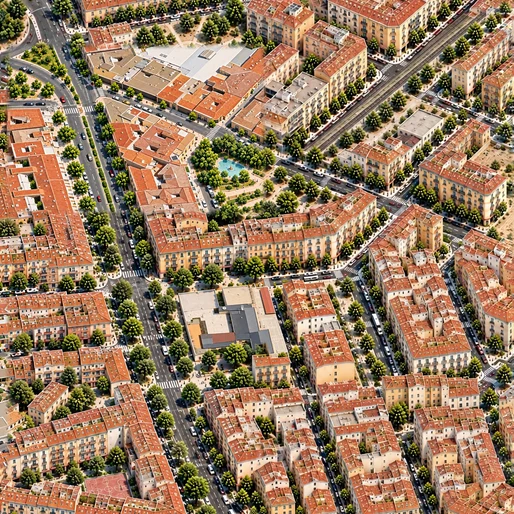
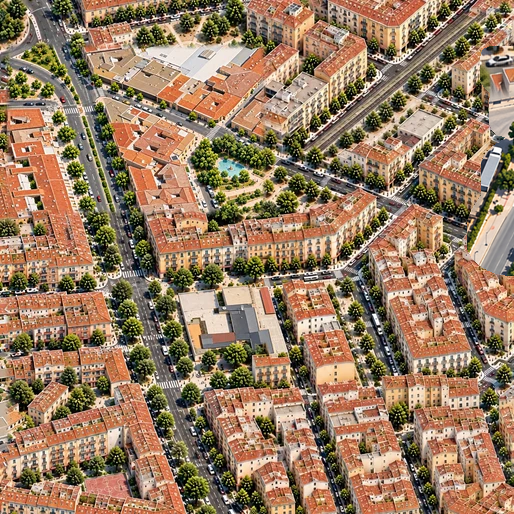
Cell 12,8: remove invented second bullring, PNOA-guided city fabric

Changed region(s): [[0.9027, 0.0623, 1.0, 0.5603]]

diff --git a/DECISIONS.md b/DECISIONS.md
@@ -411,3 +411,18 @@ Reanudacion autorizada por Rafa el 21 nov ("Avanza tuuuu"). Primera correccion a
   verde difuso que el 18 nov motivó la reversión; pendiente reparación
   guiada por PNOA, no publicación del donante tal cual.
 - Regiones 20/47/51: sin cambios (bloqueadas 18 nov).
+
+## 2026-11-21 — Celda 12,8: eliminado el segundo coso inventado
+
+- El atlas original contenía dos plazas de toros: la real (15,8, verificada
+  alineada con PNOA) y un coso inventado en 12,8 sobre manzanas ordinarias
+  (PNOA y Catastro: bloques de viviendas y plazuela). Contenido del atlas
+  original, no de lotes 1–22, por lo que no cabía reversión: sustitución
+  guiada por ortofoto (edición de imagen con doble referencia, atlas+PNOA).
+- Integración por soporte: componente conectada del diff suavizado
+  (umbral sobre media local, dilatación 20 px hasta ejes de calle, pluma
+  2 px). 0 difs RGBA fuera del soporte en todos los niveles; alfa intacto.
+- Verificación: 0 difs fuera de soporte; cuatro bordes inspeccionados a
+  resolución nativa sin costuras; tríptico actual|nuevo|PNOA conforme;
+  consistencia del warp PNOA comprobada por solape (dif media 4,9).
+- Fuentes left5–left8 actualizadas en consecuencia.
